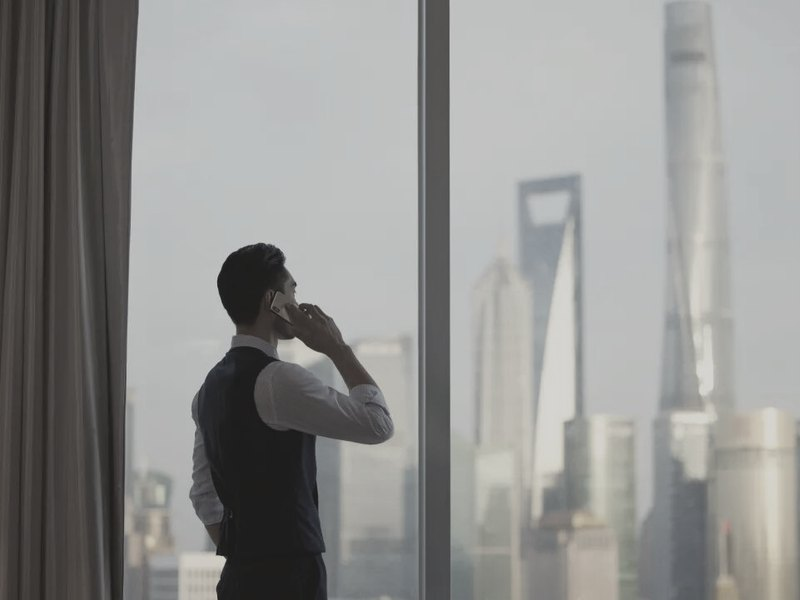
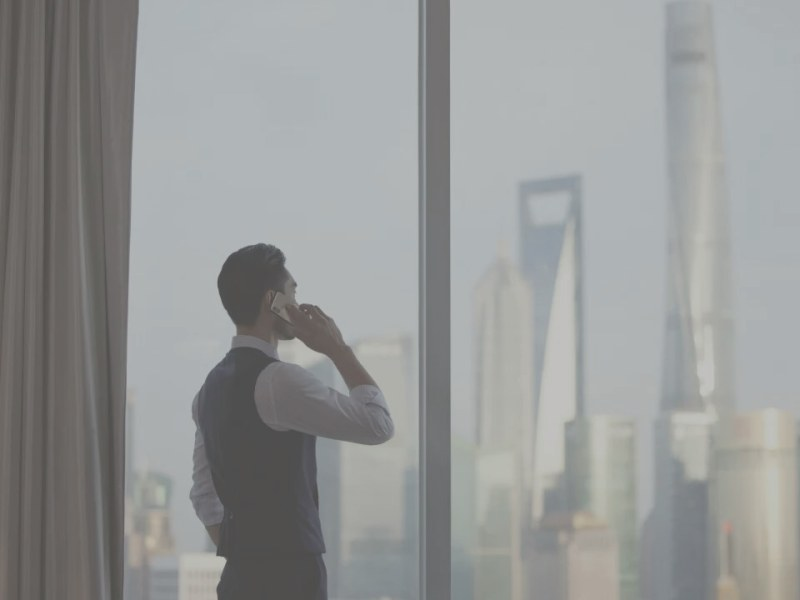
Round 4: unify module images, Xiangshan autumn panorama, admissions QR and contact in footer
Claude-Session: https://claude.ai/code/session_017er1wA7X7RWD9ZDd4vRxbQ

Changed region(s): [[0.0, 0.0, 0.1875, 1.0], [0.2188, 0.0, 0.5625, 1.0], [0.8438, 0.81, 0.9062, 1.0]]

diff --git a/index.html b/index.html
@@ -103,7 +103,7 @@
           <p class="who"><b>彭凯平　钟年　徐井宏</b><br>2026 年 9 月 · 北京香山</p>
         </article>
         <article class="module">
-          <img class="thumb" src="assets/img/mod-2.jpg" alt="书房里的一场对话" loading="lazy">
+          <img class="thumb" src="assets/img/mod-2.jpg" alt="两位企业家握手致意" loading="lazy">
           <span class="idx">MODULE 02</span>
           <h3>连接</h3>
           <div class="en">Connection</div>
@@ -116,7 +116,7 @@
           <p class="who"><b>彭凯平　樊富珉</b><br>2026 年 11 月 6—8 日 · 北京</p>
         </article>
         <article class="module">
-          <img class="thumb" src="assets/img/mod-3.jpg" alt="窗边的笔记本电脑与城市绿意" loading="lazy">
+          <img class="thumb" src="assets/img/mod-3.jpg" alt="雨窗前的沉静与自省" loading="lazy">
           <span class="idx">MODULE 03</span>
           <h3>重塑</h3>
           <div class="en">Resilience</div>
@@ -280,7 +280,7 @@
     </div>
 
     <figure class="panorama">
-      <img src="assets/img/class-round.jpg" alt="香山课堂全景" loading="lazy">
+      <img src="assets/img/xiangshan-autumn.jpg" alt="北京香山饭店，初秋" loading="lazy">
       <figcaption class="wrap"><b>认知觉醒，始于对局限的觉察。</b>意识到自己尚有未知，才能为不同的视角保留空间。北京香山，2026 年 9 月。</figcaption>
     </figure>
 
@@ -429,7 +429,7 @@
       <div>
         <h2 class="h-section">如何申请</h2>
         <ol class="steps">
-          <li><div><b>咨询</b><span>关注微信公众号「健行学堂」，联系招生老师。</span></div></li>
+          <li><div><b>咨询</b><span>扫描页面底部二维码，或致电招生咨询，与招生老师取得联系。</span></div></li>
           <li><div><b>沟通</b><span>了解项目安排、学习方式与个人成长需求。</span></div></li>
           <li><div><b>确认席位</b><span>精品小班，席位有限，学费及招生简章以官方发布为准。</span></div></li>
           <li><div><b>入学</b><span>参加线下模块，开启 66 天陪跑训练。</span></div></li>
@@ -453,8 +453,12 @@
         <p><a href="#modules">课程体系</a><br><a href="#method">学习方式</a><br><a href="#faculty">师资</a><br><a href="#apply">申请咨询</a></p>
       </div>
       <div>
-        <h4>关注</h4>
-        <p>微信公众号「健行学堂」<br>运营主体：北京满满福流文化科技有限公司</p>
+        <h4>招生咨询</h4>
+        <p>瑄瑄老师 · 荣荣老师<br>电话 <a href="tel:15313198430">153 1319 8430</a><br>邮箱 <a href="mailto:15313198430@163.com">15313198430@163.com</a><br>运营主体：北京满满福流文化科技有限公司</p>
+      </div>
+      <div class="qr">
+        <img src="assets/img/qr.png" alt="健行学堂报名咨询二维码" width="132" height="132" loading="lazy">
+        <p>扫码报名咨询</p>
       </div>
     </div>
   </div>

diff --git a/assets/css/site.css b/assets/css/site.css
@@ -388,7 +388,10 @@ figcaption b { color: var(--ink); font-weight: 600; }
 
 /* ---------- 页脚 ---------- */
 .footer { background: var(--night); color: #9d998f; font-size: 13px; padding: 56px 0 40px; border-top: 1px solid #222; }
-.footer .cols { display: grid; grid-template-columns: 2fr 1fr 1fr; gap: 40px; }
+.footer .cols { display: grid; grid-template-columns: 2fr 1fr 1.4fr auto; gap: 40px; }
+.footer .qr { width: 148px; }
+.footer .qr img { width: 132px; height: 132px; background: #fff; padding: 8px; }
+.footer .qr p { margin: 10px 0 0; text-align: center; color: #cfcbc1; letter-spacing: .1em; }
 .footer h4 { color: #f2f0ea; font-family: var(--serif); font-size: 18px; margin: 0 0 12px; letter-spacing: .1em; }
 .footer a { color: #cfcbc1; }
 .footer .legal { margin-top: 40px; padding-top: 20px; border-top: 1px solid #2c2c2c; line-height: 1.8; }
@@ -439,9 +442,9 @@ figcaption b { color: var(--ink); font-weight: 600; }
 
 
 /* ---------- 课堂现场：通栏全景 + 讲者 + 片段 ---------- */
-.panorama { margin: 64px 0 0; }
-.panorama img { width: 100%; height: clamp(320px, 64vh, 720px); object-fit: cover; object-position: 50% 45%; }
-.panorama figcaption { border-top: 0; margin-top: 0; padding-top: 14px; }
+.panorama { margin: 64px auto 0; max-width: var(--wrap); padding: 0 var(--gutter); }
+.panorama img { width: 100%; aspect-ratio: 27 / 14; height: auto; object-fit: cover; object-position: 50% 50%; }
+.panorama figcaption { border-top: 0; margin-top: 0; padding: 14px 0 0; }
 .lecturers {
   display: grid;
   grid-template-columns: repeat(3, 1fr);
